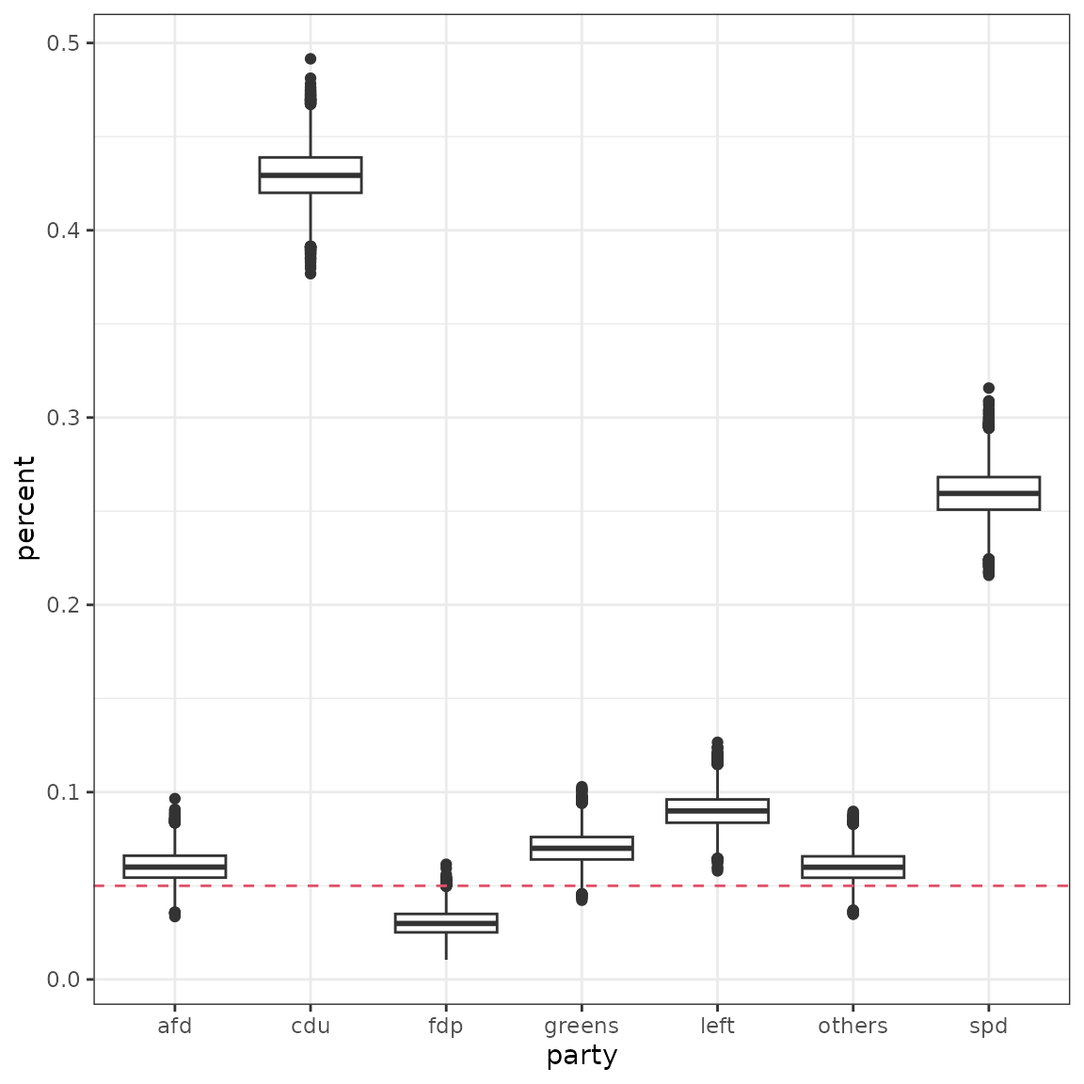
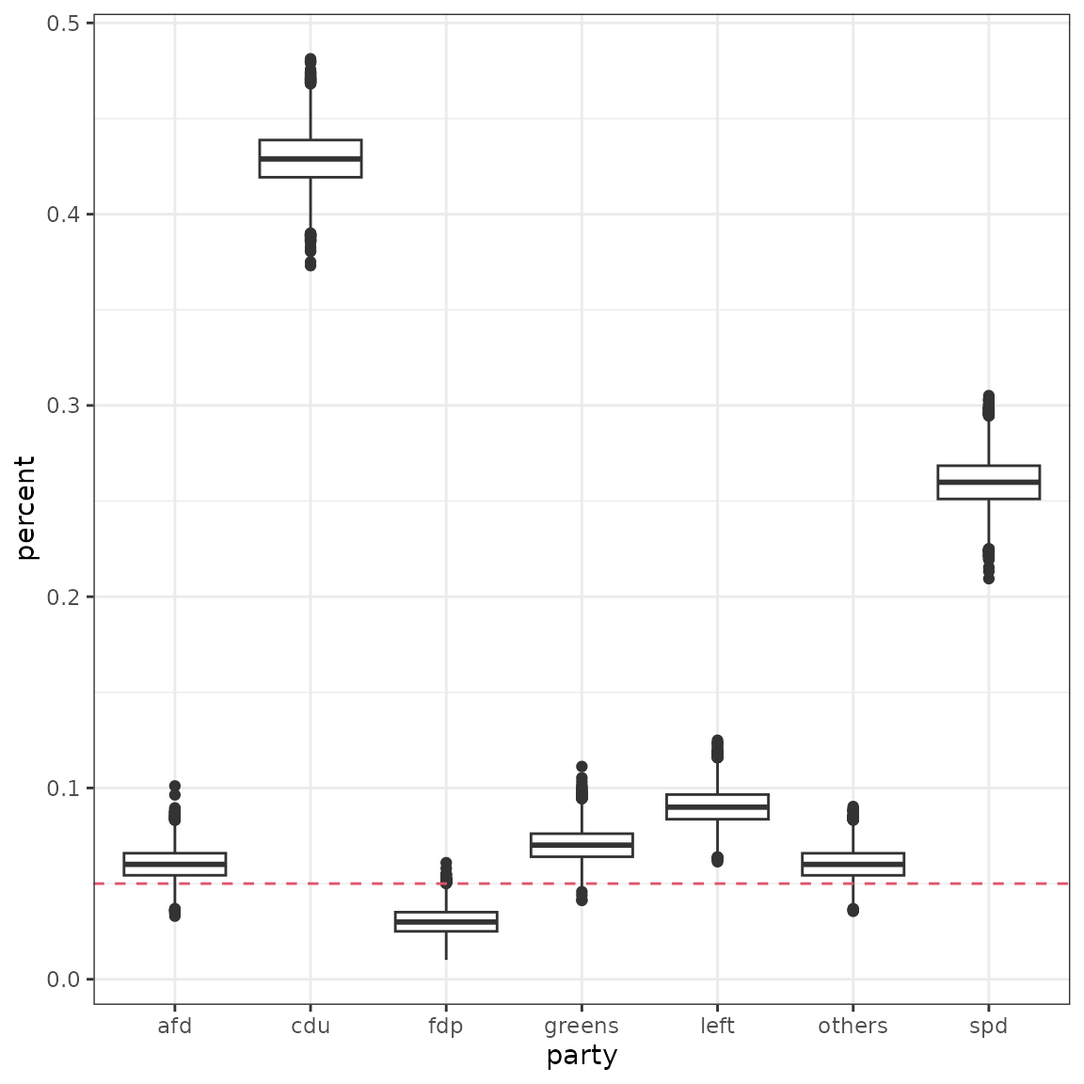
Deploying to gh-pages from @ KOALA-LMU/coalitions@fc9fa452a99d848dfd171c8ae8ef35142ea817e3 🚀

diff --git a/articles/workflow.html b/articles/workflow.html
@@ -222,16 +222,16 @@ by drawing from the Dirichlet distribution</p>
 <pre><code><span><span class="co">## <span style="color: #949494;"># A tibble: 10 × 7</span></span></span>
 <span><span class="co">##      cdu   spd greens    fdp   left    afd others</span></span>
 <span><span class="co">##    <span style="color: #949494; font-style: italic;">&lt;dbl&gt;</span> <span style="color: #949494; font-style: italic;">&lt;dbl&gt;</span>  <span style="color: #949494; font-style: italic;">&lt;dbl&gt;</span>  <span style="color: #949494; font-style: italic;">&lt;dbl&gt;</span>  <span style="color: #949494; font-style: italic;">&lt;dbl&gt;</span>  <span style="color: #949494; font-style: italic;">&lt;dbl&gt;</span>  <span style="color: #949494; font-style: italic;">&lt;dbl&gt;</span></span></span>
-<span><span class="co">## <span style="color: #BCBCBC;"> 1</span> 0.426 0.240 0.091<span style="text-decoration: underline;">9</span> 0.034<span style="text-decoration: underline;">8</span> 0.095<span style="text-decoration: underline;">7</span> 0.041<span style="text-decoration: underline;">6</span> 0.070<span style="text-decoration: underline;">3</span></span></span>
-<span><span class="co">## <span style="color: #BCBCBC;"> 2</span> 0.411 0.262 0.099<span style="text-decoration: underline;">5</span> 0.035<span style="text-decoration: underline;">6</span> 0.078<span style="text-decoration: underline;">5</span> 0.041<span style="text-decoration: underline;">0</span> 0.072<span style="text-decoration: underline;">7</span></span></span>
-<span><span class="co">## <span style="color: #BCBCBC;"> 3</span> 0.407 0.250 0.090<span style="text-decoration: underline;">3</span> 0.030<span style="text-decoration: underline;">3</span> 0.102  0.050<span style="text-decoration: underline;">5</span> 0.069<span style="text-decoration: underline;">9</span></span></span>
-<span><span class="co">## <span style="color: #BCBCBC;"> 4</span> 0.429 0.255 0.088<span style="text-decoration: underline;">7</span> 0.027<span style="text-decoration: underline;">6</span> 0.083<span style="text-decoration: underline;">2</span> 0.052<span style="text-decoration: underline;">1</span> 0.064<span style="text-decoration: underline;">8</span></span></span>
-<span><span class="co">## <span style="color: #BCBCBC;"> 5</span> 0.412 0.247 0.092<span style="text-decoration: underline;">1</span> 0.020<span style="text-decoration: underline;">4</span> 0.098<span style="text-decoration: underline;">3</span> 0.055<span style="text-decoration: underline;">7</span> 0.075<span style="text-decoration: underline;">0</span></span></span>
-<span><span class="co">## <span style="color: #BCBCBC;"> 6</span> 0.412 0.257 0.097<span style="text-decoration: underline;">5</span> 0.026<span style="text-decoration: underline;">0</span> 0.085<span style="text-decoration: underline;">2</span> 0.044<span style="text-decoration: underline;">8</span> 0.076<span style="text-decoration: underline;">9</span></span></span>
-<span><span class="co">## <span style="color: #BCBCBC;"> 7</span> 0.417 0.258 0.086<span style="text-decoration: underline;">2</span> 0.028<span style="text-decoration: underline;">5</span> 0.087<span style="text-decoration: underline;">5</span> 0.049<span style="text-decoration: underline;">7</span> 0.073<span style="text-decoration: underline;">5</span></span></span>
-<span><span class="co">## <span style="color: #BCBCBC;"> 8</span> 0.424 0.239 0.084<span style="text-decoration: underline;">3</span> 0.029<span style="text-decoration: underline;">2</span> 0.094<span style="text-decoration: underline;">8</span> 0.050<span style="text-decoration: underline;">6</span> 0.078<span style="text-decoration: underline;">3</span></span></span>
-<span><span class="co">## <span style="color: #BCBCBC;"> 9</span> 0.423 0.241 0.104  0.033<span style="text-decoration: underline;">2</span> 0.090<span style="text-decoration: underline;">5</span> 0.044<span style="text-decoration: underline;">1</span> 0.064<span style="text-decoration: underline;">5</span></span></span>
-<span><span class="co">## <span style="color: #BCBCBC;">10</span> 0.420 0.242 0.093<span style="text-decoration: underline;">9</span> 0.029<span style="text-decoration: underline;">5</span> 0.093<span style="text-decoration: underline;">3</span> 0.052<span style="text-decoration: underline;">1</span> 0.069<span style="text-decoration: underline;">2</span></span></span></code></pre>
+<span><span class="co">## <span style="color: #BCBCBC;"> 1</span> 0.414 0.252 0.079<span style="text-decoration: underline;">3</span> 0.032<span style="text-decoration: underline;">3</span> 0.092<span style="text-decoration: underline;">6</span> 0.056<span style="text-decoration: underline;">9</span> 0.073<span style="text-decoration: underline;">5</span></span></span>
+<span><span class="co">## <span style="color: #BCBCBC;"> 2</span> 0.416 0.249 0.095<span style="text-decoration: underline;">4</span> 0.031<span style="text-decoration: underline;">8</span> 0.091<span style="text-decoration: underline;">9</span> 0.044<span style="text-decoration: underline;">8</span> 0.071<span style="text-decoration: underline;">5</span></span></span>
+<span><span class="co">## <span style="color: #BCBCBC;"> 3</span> 0.425 0.265 0.078<span style="text-decoration: underline;">0</span> 0.027<span style="text-decoration: underline;">7</span> 0.086<span style="text-decoration: underline;">9</span> 0.051<span style="text-decoration: underline;">1</span> 0.065<span style="text-decoration: underline;">6</span></span></span>
+<span><span class="co">## <span style="color: #BCBCBC;"> 4</span> 0.428 0.251 0.081<span style="text-decoration: underline;">4</span> 0.035<span style="text-decoration: underline;">5</span> 0.088<span style="text-decoration: underline;">6</span> 0.055<span style="text-decoration: underline;">8</span> 0.059<span style="text-decoration: underline;">7</span></span></span>
+<span><span class="co">## <span style="color: #BCBCBC;"> 5</span> 0.420 0.243 0.092<span style="text-decoration: underline;">8</span> 0.032<span style="text-decoration: underline;">0</span> 0.096<span style="text-decoration: underline;">4</span> 0.047<span style="text-decoration: underline;">6</span> 0.068<span style="text-decoration: underline;">7</span></span></span>
+<span><span class="co">## <span style="color: #BCBCBC;"> 6</span> 0.425 0.247 0.092<span style="text-decoration: underline;">6</span> 0.033<span style="text-decoration: underline;">5</span> 0.087<span style="text-decoration: underline;">2</span> 0.046<span style="text-decoration: underline;">5</span> 0.068<span style="text-decoration: underline;">4</span></span></span>
+<span><span class="co">## <span style="color: #BCBCBC;"> 7</span> 0.420 0.241 0.091<span style="text-decoration: underline;">1</span> 0.025<span style="text-decoration: underline;">5</span> 0.090<span style="text-decoration: underline;">1</span> 0.056<span style="text-decoration: underline;">1</span> 0.076<span style="text-decoration: underline;">1</span></span></span>
+<span><span class="co">## <span style="color: #BCBCBC;"> 8</span> 0.427 0.251 0.084<span style="text-decoration: underline;">6</span> 0.033<span style="text-decoration: underline;">1</span> 0.090<span style="text-decoration: underline;">4</span> 0.049<span style="text-decoration: underline;">9</span> 0.064<span style="text-decoration: underline;">8</span></span></span>
+<span><span class="co">## <span style="color: #BCBCBC;"> 9</span> 0.403 0.255 0.091<span style="text-decoration: underline;">9</span> 0.027<span style="text-decoration: underline;">2</span> 0.082<span style="text-decoration: underline;">8</span> 0.058<span style="text-decoration: underline;">9</span> 0.081<span style="text-decoration: underline;">7</span></span></span>
+<span><span class="co">## <span style="color: #BCBCBC;">10</span> 0.397 0.261 0.096<span style="text-decoration: underline;">4</span> 0.030<span style="text-decoration: underline;">5</span> 0.091<span style="text-decoration: underline;">9</span> 0.057<span style="text-decoration: underline;">8</span> 0.065<span style="text-decoration: underline;">5</span></span></span></code></pre>
 </div>
 <div class="section level2">
 <h2 id="calculate-seat-distribution">Calculate seat distribution<a class="anchor" aria-label="anchor" href="#calculate-seat-distribution"></a>
@@ -254,31 +254,31 @@ function to the <code>distrib.fun</code> argument of the
 <pre><code><span><span class="co">## <span style="color: #949494;"># A tibble: 6 × 4</span></span></span>
 <span><span class="co">##   date       survey           draws             seats            </span></span>
 <span><span class="co">##   <span style="color: #949494; font-style: italic;">&lt;date&gt;</span>     <span style="color: #949494; font-style: italic;">&lt;list&gt;</span>           <span style="color: #949494; font-style: italic;">&lt;list&gt;</span>            <span style="color: #949494; font-style: italic;">&lt;list&gt;</span>           </span></span>
-<span><span class="co">## <span style="color: #BCBCBC;">1</span> 2013-11-03 <span style="color: #949494;">&lt;tibble [7 × 3]&gt;</span> <span style="color: #949494;">&lt;tibble [10 × 7]&gt;</span> <span style="color: #949494;">&lt;tibble [45 × 3]&gt;</span></span></span>
-<span><span class="co">## <span style="color: #BCBCBC;">2</span> 2013-10-27 <span style="color: #949494;">&lt;tibble [7 × 3]&gt;</span> <span style="color: #949494;">&lt;tibble [10 × 7]&gt;</span> <span style="color: #949494;">&lt;tibble [45 × 3]&gt;</span></span></span>
-<span><span class="co">## <span style="color: #BCBCBC;">3</span> 2013-10-20 <span style="color: #949494;">&lt;tibble [7 × 3]&gt;</span> <span style="color: #949494;">&lt;tibble [10 × 7]&gt;</span> <span style="color: #949494;">&lt;tibble [45 × 3]&gt;</span></span></span>
-<span><span class="co">## <span style="color: #BCBCBC;">4</span> 2013-10-13 <span style="color: #949494;">&lt;tibble [7 × 3]&gt;</span> <span style="color: #949494;">&lt;tibble [10 × 7]&gt;</span> <span style="color: #949494;">&lt;tibble [49 × 3]&gt;</span></span></span>
-<span><span class="co">## <span style="color: #BCBCBC;">5</span> 2013-10-06 <span style="color: #949494;">&lt;tibble [7 × 3]&gt;</span> <span style="color: #949494;">&lt;tibble [10 × 7]&gt;</span> <span style="color: #949494;">&lt;tibble [49 × 3]&gt;</span></span></span>
-<span><span class="co">## <span style="color: #BCBCBC;">6</span> 2013-09-29 <span style="color: #949494;">&lt;tibble [7 × 3]&gt;</span> <span style="color: #949494;">&lt;tibble [10 × 7]&gt;</span> <span style="color: #949494;">&lt;tibble [48 × 3]&gt;</span></span></span></code></pre>
+<span><span class="co">## <span style="color: #BCBCBC;">1</span> 2013-11-03 <span style="color: #949494;">&lt;tibble [7 × 3]&gt;</span> <span style="color: #949494;">&lt;tibble [10 × 7]&gt;</span> <span style="color: #949494;">&lt;tibble [46 × 3]&gt;</span></span></span>
+<span><span class="co">## <span style="color: #BCBCBC;">2</span> 2013-10-27 <span style="color: #949494;">&lt;tibble [7 × 3]&gt;</span> <span style="color: #949494;">&lt;tibble [10 × 7]&gt;</span> <span style="color: #949494;">&lt;tibble [46 × 3]&gt;</span></span></span>
+<span><span class="co">## <span style="color: #BCBCBC;">3</span> 2013-10-20 <span style="color: #949494;">&lt;tibble [7 × 3]&gt;</span> <span style="color: #949494;">&lt;tibble [10 × 7]&gt;</span> <span style="color: #949494;">&lt;tibble [46 × 3]&gt;</span></span></span>
+<span><span class="co">## <span style="color: #BCBCBC;">4</span> 2013-10-13 <span style="color: #949494;">&lt;tibble [7 × 3]&gt;</span> <span style="color: #949494;">&lt;tibble [10 × 7]&gt;</span> <span style="color: #949494;">&lt;tibble [50 × 3]&gt;</span></span></span>
+<span><span class="co">## <span style="color: #BCBCBC;">5</span> 2013-10-06 <span style="color: #949494;">&lt;tibble [7 × 3]&gt;</span> <span style="color: #949494;">&lt;tibble [10 × 7]&gt;</span> <span style="color: #949494;">&lt;tibble [50 × 3]&gt;</span></span></span>
+<span><span class="co">## <span style="color: #BCBCBC;">6</span> 2013-09-29 <span style="color: #949494;">&lt;tibble [7 × 3]&gt;</span> <span style="color: #949494;">&lt;tibble [10 × 7]&gt;</span> <span style="color: #949494;">&lt;tibble [50 × 3]&gt;</span></span></span></code></pre>
 <div class="sourceCode" id="cb14"><pre class="downlit sourceCode r">
 <code class="sourceCode R"><span><span class="co">## sim column indicates simulated elections (rows in draws column)</span></span>
 <span><span class="va">elong</span> <span class="op"><a href="../reference/pipe.html">%&gt;%</a></span> <span class="fu"><a href="https://dplyr.tidyverse.org/reference/slice.html" class="external-link">slice</a></span><span class="op">(</span><span class="fl">1</span><span class="op">)</span> <span class="op"><a href="../reference/pipe.html">%&gt;%</a></span> <span class="fu"><a href="https://dplyr.tidyverse.org/reference/select.html" class="external-link">select</a></span><span class="op">(</span><span class="va">seats</span><span class="op">)</span> <span class="op"><a href="../reference/pipe.html">%&gt;%</a></span> <span class="fu"><a href="https://tidyr.tidyverse.org/reference/unnest.html" class="external-link">unnest</a></span><span class="op">(</span><span class="st">"seats"</span><span class="op">)</span></span></code></pre></div>
-<pre><code><span><span class="co">## <span style="color: #949494;"># A tibble: 45 × 3</span></span></span>
+<pre><code><span><span class="co">## <span style="color: #949494;"># A tibble: 46 × 3</span></span></span>
 <span><span class="co">##      sim party  seats</span></span>
 <span><span class="co">##    <span style="color: #949494; font-style: italic;">&lt;int&gt;</span> <span style="color: #949494; font-style: italic;">&lt;chr&gt;</span>  <span style="color: #949494; font-style: italic;">&lt;int&gt;</span></span></span>
-<span><span class="co">## <span style="color: #BCBCBC;"> 1</span>     1 cdu      299</span></span>
-<span><span class="co">## <span style="color: #BCBCBC;"> 2</span>     1 spd       64</span></span>
-<span><span class="co">## <span style="color: #BCBCBC;"> 3</span>     1 greens    67</span></span>
-<span><span class="co">## <span style="color: #BCBCBC;"> 4</span>     1 left     168</span></span>
-<span><span class="co">## <span style="color: #BCBCBC;"> 5</span>     2 cdu      289</span></span>
-<span><span class="co">## <span style="color: #BCBCBC;"> 6</span>     2 spd       70</span></span>
-<span><span class="co">## <span style="color: #BCBCBC;"> 7</span>     2 greens    55</span></span>
-<span><span class="co">## <span style="color: #BCBCBC;"> 8</span>     2 left     184</span></span>
-<span><span class="co">## <span style="color: #BCBCBC;"> 9</span>     3 cdu       34</span></span>
-<span><span class="co">## <span style="color: #BCBCBC;">10</span>     3 spd      270</span></span>
-<span><span class="co">## <span style="color: #949494;"># ℹ 35 more rows</span></span></span></code></pre>
-<p>In the above example, given the latest survey, CDU/CSU would have 299
-seats in the first simulation, 289 seats in the second simulation,
+<span><span class="co">## <span style="color: #BCBCBC;"> 1</span>     1 cdu       38</span></span>
+<span><span class="co">## <span style="color: #BCBCBC;"> 2</span>     1 spd      277</span></span>
+<span><span class="co">## <span style="color: #BCBCBC;"> 3</span>     1 greens    53</span></span>
+<span><span class="co">## <span style="color: #BCBCBC;"> 4</span>     1 left      62</span></span>
+<span><span class="co">## <span style="color: #BCBCBC;"> 5</span>     1 afd      168</span></span>
+<span><span class="co">## <span style="color: #BCBCBC;"> 6</span>     2 cdu      292</span></span>
+<span><span class="co">## <span style="color: #BCBCBC;"> 7</span>     2 spd       67</span></span>
+<span><span class="co">## <span style="color: #BCBCBC;"> 8</span>     2 greens    64</span></span>
+<span><span class="co">## <span style="color: #BCBCBC;"> 9</span>     2 left     175</span></span>
+<span><span class="co">## <span style="color: #BCBCBC;">10</span>     3 cdu       34</span></span>
+<span><span class="co">## <span style="color: #949494;"># ℹ 36 more rows</span></span></span></code></pre>
+<p>In the above example, given the latest survey, CDU/CSU would have 38
+seats in the first simulation, 292 seats in the second simulation,
 etc.</p>
 </div>
 <div class="section level2">
@@ -308,12 +308,12 @@ could potentially obtain absolute majority on their own):</p>
 <pre><code><span><span class="co">## <span style="color: #949494;"># A tibble: 6 × 4</span></span></span>
 <span><span class="co">##   date       draws             seats             majorities       </span></span>
 <span><span class="co">##   <span style="color: #949494; font-style: italic;">&lt;date&gt;</span>     <span style="color: #949494; font-style: italic;">&lt;list&gt;</span>            <span style="color: #949494; font-style: italic;">&lt;list&gt;</span>            <span style="color: #949494; font-style: italic;">&lt;list&gt;</span>           </span></span>
-<span><span class="co">## <span style="color: #BCBCBC;">1</span> 2013-11-03 <span style="color: #949494;">&lt;tibble [10 × 7]&gt;</span> <span style="color: #949494;">&lt;tibble [45 × 3]&gt;</span> <span style="color: #949494;">&lt;tibble [10 × 9]&gt;</span></span></span>
-<span><span class="co">## <span style="color: #BCBCBC;">2</span> 2013-10-27 <span style="color: #949494;">&lt;tibble [10 × 7]&gt;</span> <span style="color: #949494;">&lt;tibble [45 × 3]&gt;</span> <span style="color: #949494;">&lt;tibble [10 × 9]&gt;</span></span></span>
-<span><span class="co">## <span style="color: #BCBCBC;">3</span> 2013-10-20 <span style="color: #949494;">&lt;tibble [10 × 7]&gt;</span> <span style="color: #949494;">&lt;tibble [45 × 3]&gt;</span> <span style="color: #949494;">&lt;tibble [10 × 9]&gt;</span></span></span>
-<span><span class="co">## <span style="color: #BCBCBC;">4</span> 2013-10-13 <span style="color: #949494;">&lt;tibble [10 × 7]&gt;</span> <span style="color: #949494;">&lt;tibble [49 × 3]&gt;</span> <span style="color: #949494;">&lt;tibble [10 × 9]&gt;</span></span></span>
-<span><span class="co">## <span style="color: #BCBCBC;">5</span> 2013-10-06 <span style="color: #949494;">&lt;tibble [10 × 7]&gt;</span> <span style="color: #949494;">&lt;tibble [49 × 3]&gt;</span> <span style="color: #949494;">&lt;tibble [10 × 9]&gt;</span></span></span>
-<span><span class="co">## <span style="color: #BCBCBC;">6</span> 2013-09-29 <span style="color: #949494;">&lt;tibble [10 × 7]&gt;</span> <span style="color: #949494;">&lt;tibble [48 × 3]&gt;</span> <span style="color: #949494;">&lt;tibble [10 × 9]&gt;</span></span></span></code></pre>
+<span><span class="co">## <span style="color: #BCBCBC;">1</span> 2013-11-03 <span style="color: #949494;">&lt;tibble [10 × 7]&gt;</span> <span style="color: #949494;">&lt;tibble [46 × 3]&gt;</span> <span style="color: #949494;">&lt;tibble [10 × 9]&gt;</span></span></span>
+<span><span class="co">## <span style="color: #BCBCBC;">2</span> 2013-10-27 <span style="color: #949494;">&lt;tibble [10 × 7]&gt;</span> <span style="color: #949494;">&lt;tibble [46 × 3]&gt;</span> <span style="color: #949494;">&lt;tibble [10 × 9]&gt;</span></span></span>
+<span><span class="co">## <span style="color: #BCBCBC;">3</span> 2013-10-20 <span style="color: #949494;">&lt;tibble [10 × 7]&gt;</span> <span style="color: #949494;">&lt;tibble [46 × 3]&gt;</span> <span style="color: #949494;">&lt;tibble [10 × 9]&gt;</span></span></span>
+<span><span class="co">## <span style="color: #BCBCBC;">4</span> 2013-10-13 <span style="color: #949494;">&lt;tibble [10 × 7]&gt;</span> <span style="color: #949494;">&lt;tibble [50 × 3]&gt;</span> <span style="color: #949494;">&lt;tibble [10 × 9]&gt;</span></span></span>
+<span><span class="co">## <span style="color: #BCBCBC;">5</span> 2013-10-06 <span style="color: #949494;">&lt;tibble [10 × 7]&gt;</span> <span style="color: #949494;">&lt;tibble [50 × 3]&gt;</span> <span style="color: #949494;">&lt;tibble [10 × 9]&gt;</span></span></span>
+<span><span class="co">## <span style="color: #BCBCBC;">6</span> 2013-09-29 <span style="color: #949494;">&lt;tibble [10 × 7]&gt;</span> <span style="color: #949494;">&lt;tibble [50 × 3]&gt;</span> <span style="color: #949494;">&lt;tibble [10 × 9]&gt;</span></span></span></code></pre>
 <div class="sourceCode" id="cb18"><pre class="downlit sourceCode r">
 <code class="sourceCode R"><span><span class="co"># The majorities table for each date will have 1 row per simulation</span></span>
 <span><span class="co"># and one column per coalition</span></span>
@@ -321,15 +321,15 @@ could potentially obtain absolute majority on their own):</p>
 <pre><code><span><span class="co">## <span style="color: #949494;"># A tibble: 10 × 9</span></span></span>
 <span><span class="co">##    cdu   cdu_fdp cdu_greens cdu_fdp_greens spd   left_spd greens_spd</span></span>
 <span><span class="co">##    <span style="color: #949494; font-style: italic;">&lt;lgl&gt;</span> <span style="color: #949494; font-style: italic;">&lt;lgl&gt;</span>   <span style="color: #949494; font-style: italic;">&lt;lgl&gt;</span>      <span style="color: #949494; font-style: italic;">&lt;lgl&gt;</span>          <span style="color: #949494; font-style: italic;">&lt;lgl&gt;</span> <span style="color: #949494; font-style: italic;">&lt;lgl&gt;</span>    <span style="color: #949494; font-style: italic;">&lt;lgl&gt;</span>     </span></span>
-<span><span class="co">## <span style="color: #BCBCBC;"> 1</span> FALSE FALSE   TRUE       TRUE           FALSE FALSE    FALSE     </span></span>
+<span><span class="co">## <span style="color: #BCBCBC;"> 1</span> FALSE FALSE   FALSE      FALSE          FALSE TRUE     TRUE      </span></span>
 <span><span class="co">## <span style="color: #BCBCBC;"> 2</span> FALSE FALSE   TRUE       TRUE           FALSE FALSE    FALSE     </span></span>
 <span><span class="co">## <span style="color: #BCBCBC;"> 3</span> FALSE FALSE   FALSE      FALSE          FALSE TRUE     TRUE      </span></span>
 <span><span class="co">## <span style="color: #BCBCBC;"> 4</span> FALSE FALSE   FALSE      FALSE          FALSE TRUE     TRUE      </span></span>
-<span><span class="co">## <span style="color: #BCBCBC;"> 5</span> FALSE FALSE   FALSE      FALSE          FALSE TRUE     TRUE      </span></span>
+<span><span class="co">## <span style="color: #BCBCBC;"> 5</span> FALSE FALSE   TRUE       TRUE           FALSE FALSE    FALSE     </span></span>
 <span><span class="co">## <span style="color: #BCBCBC;"> 6</span> FALSE FALSE   TRUE       TRUE           FALSE FALSE    FALSE     </span></span>
-<span><span class="co">## <span style="color: #BCBCBC;"> 7</span> FALSE FALSE   TRUE       TRUE           FALSE FALSE    FALSE     </span></span>
-<span><span class="co">## <span style="color: #BCBCBC;"> 8</span> FALSE FALSE   FALSE      FALSE          FALSE TRUE     TRUE      </span></span>
-<span><span class="co">## <span style="color: #BCBCBC;"> 9</span> FALSE FALSE   TRUE       TRUE           FALSE FALSE    FALSE     </span></span>
+<span><span class="co">## <span style="color: #BCBCBC;"> 7</span> FALSE FALSE   FALSE      FALSE          FALSE TRUE     TRUE      </span></span>
+<span><span class="co">## <span style="color: #BCBCBC;"> 8</span> TRUE  TRUE    TRUE       TRUE           FALSE FALSE    FALSE     </span></span>
+<span><span class="co">## <span style="color: #BCBCBC;"> 9</span> FALSE FALSE   FALSE      FALSE          FALSE TRUE     TRUE      </span></span>
 <span><span class="co">## <span style="color: #BCBCBC;">10</span> FALSE FALSE   FALSE      FALSE          FALSE TRUE     TRUE      </span></span>
 <span><span class="co">## <span style="color: #949494;"># ℹ 2 more variables: greens_left_spd &lt;lgl&gt;, cdu_spd &lt;lgl&gt;</span></span></span></code></pre>
 </div>
@@ -361,15 +361,15 @@ simulation with majority for “cdu/csu” and “fdp”, see example in
 <pre><code><span><span class="co">## <span style="color: #949494;"># A tibble: 9 × 2</span></span></span>
 <span><span class="co">##   coalition       probability</span></span>
 <span><span class="co">##   <span style="color: #949494; font-style: italic;">&lt;chr&gt;</span>                 <span style="color: #949494; font-style: italic;">&lt;dbl&gt;</span></span></span>
-<span><span class="co">## <span style="color: #BCBCBC;">1</span> cdu                       0</span></span>
+<span><span class="co">## <span style="color: #BCBCBC;">1</span> cdu                      10</span></span>
 <span><span class="co">## <span style="color: #BCBCBC;">2</span> cdu_fdp                   0</span></span>
-<span><span class="co">## <span style="color: #BCBCBC;">3</span> cdu_greens               50</span></span>
+<span><span class="co">## <span style="color: #BCBCBC;">3</span> cdu_greens               30</span></span>
 <span><span class="co">## <span style="color: #BCBCBC;">4</span> cdu_fdp_greens            0</span></span>
 <span><span class="co">## <span style="color: #BCBCBC;">5</span> spd                       0</span></span>
-<span><span class="co">## <span style="color: #BCBCBC;">6</span> left_spd                 50</span></span>
-<span><span class="co">## <span style="color: #BCBCBC;">7</span> greens_spd               50</span></span>
-<span><span class="co">## <span style="color: #BCBCBC;">8</span> greens_left_spd          40</span></span>
-<span><span class="co">## <span style="color: #BCBCBC;">9</span> cdu_spd                 100</span></span></code></pre>
+<span><span class="co">## <span style="color: #BCBCBC;">6</span> left_spd                 60</span></span>
+<span><span class="co">## <span style="color: #BCBCBC;">7</span> greens_spd               60</span></span>
+<span><span class="co">## <span style="color: #BCBCBC;">8</span> greens_left_spd          20</span></span>
+<span><span class="co">## <span style="color: #BCBCBC;">9</span> cdu_spd                  90</span></span></code></pre>
 </div>
 <div class="section level2">
 <h2 id="wrapper">Wrapper<a class="anchor" aria-label="anchor" href="#wrapper"></a>
@@ -383,13 +383,13 @@ simulation with majority for “cdu/csu” and “fdp”, see example in
 <span><span class="co">##    <span style="color: #949494; font-style: italic;">&lt;date&gt;</span>     <span style="color: #949494; font-style: italic;">&lt;chr&gt;</span>                 <span style="color: #949494; font-style: italic;">&lt;dbl&gt;</span></span></span>
 <span><span class="co">## <span style="color: #BCBCBC;"> 1</span> 2013-11-03 cdu                       0</span></span>
 <span><span class="co">## <span style="color: #BCBCBC;"> 2</span> 2013-11-03 cdu_fdp                   0</span></span>
-<span><span class="co">## <span style="color: #BCBCBC;"> 3</span> 2013-11-03 cdu_fdp_greens           20</span></span>
+<span><span class="co">## <span style="color: #BCBCBC;"> 3</span> 2013-11-03 cdu_fdp_greens           60</span></span>
 <span><span class="co">## <span style="color: #BCBCBC;"> 4</span> 2013-11-03 spd                       0</span></span>
-<span><span class="co">## <span style="color: #BCBCBC;"> 5</span> 2013-11-03 left_spd                 80</span></span>
-<span><span class="co">## <span style="color: #BCBCBC;"> 6</span> 2013-11-03 greens_left_spd          20</span></span>
+<span><span class="co">## <span style="color: #BCBCBC;"> 5</span> 2013-11-03 left_spd                 40</span></span>
+<span><span class="co">## <span style="color: #BCBCBC;"> 6</span> 2013-11-03 greens_left_spd          60</span></span>
 <span><span class="co">## <span style="color: #BCBCBC;"> 7</span> 2013-10-27 cdu                       0</span></span>
 <span><span class="co">## <span style="color: #BCBCBC;"> 8</span> 2013-10-27 cdu_fdp                   0</span></span>
-<span><span class="co">## <span style="color: #BCBCBC;"> 9</span> 2013-10-27 cdu_fdp_greens           20</span></span>
+<span><span class="co">## <span style="color: #BCBCBC;"> 9</span> 2013-10-27 cdu_fdp_greens           60</span></span>
 <span><span class="co">## <span style="color: #BCBCBC;">10</span> 2013-10-27 spd                       0</span></span>
 <span><span class="co">## <span style="color: #949494;"># ℹ 26 more rows</span></span></span></code></pre>
 </div>

diff --git a/reference/get_seats.html b/reference/get_seats.html
@@ -152,16 +152,16 @@ explicitly are subsumed.</p></dd>
 <span class="r-out co"><span class="r-pr">#&gt;</span> <span style="color: #949494;"># A tibble: 600 × 3</span></span>
 <span class="r-out co"><span class="r-pr">#&gt;</span>      sim party  seats</span>
 <span class="r-out co"><span class="r-pr">#&gt;</span>    <span style="color: #949494; font-style: italic;">&lt;int&gt;</span> <span style="color: #949494; font-style: italic;">&lt;chr&gt;</span>  <span style="color: #949494; font-style: italic;">&lt;int&gt;</span></span>
-<span class="r-out co"><span class="r-pr">#&gt;</span> <span style="color: #BCBCBC;"> 1</span>     1 cdu       45</span>
-<span class="r-out co"><span class="r-pr">#&gt;</span> <span style="color: #BCBCBC;"> 2</span>     1 spd      241</span>
-<span class="r-out co"><span class="r-pr">#&gt;</span> <span style="color: #BCBCBC;"> 3</span>     1 greens    45</span>
-<span class="r-out co"><span class="r-pr">#&gt;</span> <span style="color: #BCBCBC;"> 4</span>     1 fdp       43</span>
+<span class="r-out co"><span class="r-pr">#&gt;</span> <span style="color: #BCBCBC;"> 1</span>     1 cdu       56</span>
+<span class="r-out co"><span class="r-pr">#&gt;</span> <span style="color: #BCBCBC;"> 2</span>     1 spd      249</span>
+<span class="r-out co"><span class="r-pr">#&gt;</span> <span style="color: #BCBCBC;"> 3</span>     1 greens    48</span>
+<span class="r-out co"><span class="r-pr">#&gt;</span> <span style="color: #BCBCBC;"> 4</span>     1 fdp       50</span>
 <span class="r-out co"><span class="r-pr">#&gt;</span> <span style="color: #BCBCBC;"> 5</span>     1 left      55</span>
-<span class="r-out co"><span class="r-pr">#&gt;</span> <span style="color: #BCBCBC;"> 6</span>     1 afd      169</span>
-<span class="r-out co"><span class="r-pr">#&gt;</span> <span style="color: #BCBCBC;"> 7</span>     2 cdu       49</span>
-<span class="r-out co"><span class="r-pr">#&gt;</span> <span style="color: #BCBCBC;"> 8</span>     2 spd      242</span>
-<span class="r-out co"><span class="r-pr">#&gt;</span> <span style="color: #BCBCBC;"> 9</span>     2 greens    51</span>
-<span class="r-out co"><span class="r-pr">#&gt;</span> <span style="color: #BCBCBC;">10</span>     2 fdp       51</span>
+<span class="r-out co"><span class="r-pr">#&gt;</span> <span style="color: #BCBCBC;"> 6</span>     1 afd      140</span>
+<span class="r-out co"><span class="r-pr">#&gt;</span> <span style="color: #BCBCBC;"> 7</span>     2 cdu       47</span>
+<span class="r-out co"><span class="r-pr">#&gt;</span> <span style="color: #BCBCBC;"> 8</span>     2 spd      241</span>
+<span class="r-out co"><span class="r-pr">#&gt;</span> <span style="color: #BCBCBC;"> 9</span>     2 greens    56</span>
+<span class="r-out co"><span class="r-pr">#&gt;</span> <span style="color: #BCBCBC;">10</span>     2 fdp       45</span>
 <span class="r-out co"><span class="r-pr">#&gt;</span> <span style="color: #949494;"># ℹ 590 more rows</span></span>
 <span class="r-out co"><span class="r-pr">#&gt;</span> </span>
 </code></pre></div>

diff --git a/articles/diagnostic.html b/articles/diagnostic.html
@@ -164,12 +164,12 @@ Bender</h4>
 <pre><code><span><span class="co">## <span style="color: #949494;"># A tibble: 7 × 2</span></span></span>
 <span><span class="co">##   party  entryprob</span></span>
 <span><span class="co">##   <span style="color: #949494; font-style: italic;">&lt;chr&gt;</span>      <span style="color: #949494; font-style: italic;">&lt;dbl&gt;</span></span></span>
-<span><span class="co">## <span style="color: #BCBCBC;">1</span> afd       0.888 </span></span>
+<span><span class="co">## <span style="color: #BCBCBC;">1</span> afd       0.892 </span></span>
 <span><span class="co">## <span style="color: #BCBCBC;">2</span> cdu       1     </span></span>
-<span><span class="co">## <span style="color: #BCBCBC;">3</span> fdp       0.003<span style="text-decoration: underline;">2</span></span></span>
-<span><span class="co">## <span style="color: #BCBCBC;">4</span> greens    0.995 </span></span>
+<span><span class="co">## <span style="color: #BCBCBC;">3</span> fdp       0.004<span style="text-decoration: underline;">2</span></span></span>
+<span><span class="co">## <span style="color: #BCBCBC;">4</span> greens    0.994 </span></span>
 <span><span class="co">## <span style="color: #BCBCBC;">5</span> left      1     </span></span>
-<span><span class="co">## <span style="color: #BCBCBC;">6</span> others    0.888 </span></span>
+<span><span class="co">## <span style="color: #BCBCBC;">6</span> others    0.892 </span></span>
 <span><span class="co">## <span style="color: #BCBCBC;">7</span> spd       1</span></span></code></pre>
   </div>
 

diff --git a/reference/get_entryprobability.html b/reference/get_entryprobability.html
@@ -118,7 +118,7 @@ to enter the parliament. Any party called "ssw" will be exempt from the hurdle.<
 <span class="r-in"><span><span class="va">surveys</span><span class="op">$</span><span class="va">entryProbs</span></span></span>
 <span class="r-out co"><span class="r-pr">#&gt;</span> [[1]]</span>
 <span class="r-out co"><span class="r-pr">#&gt;</span>    cdu    spd greens    fdp   left    afd others </span>
-<span class="r-out co"><span class="r-pr">#&gt;</span>   1.00   1.00   1.00   1.00   1.00   1.00   0.42 </span>
+<span class="r-out co"><span class="r-pr">#&gt;</span>   1.00   1.00   1.00   1.00   1.00   1.00   0.53 </span>
 <span class="r-out co"><span class="r-pr">#&gt;</span> </span>
 </code></pre></div>
     </div>
